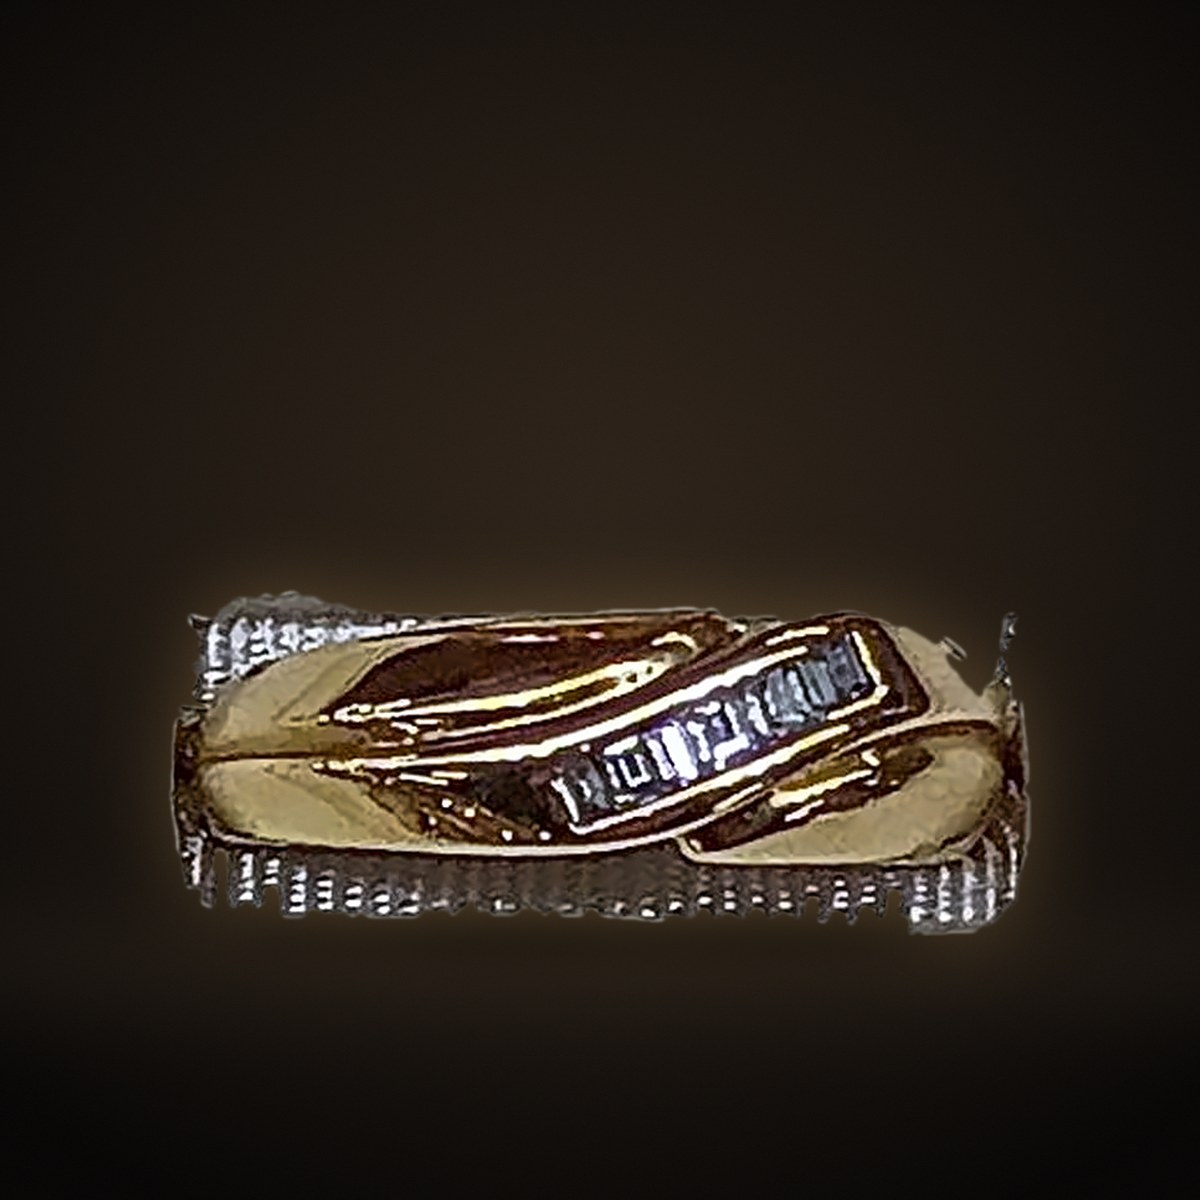
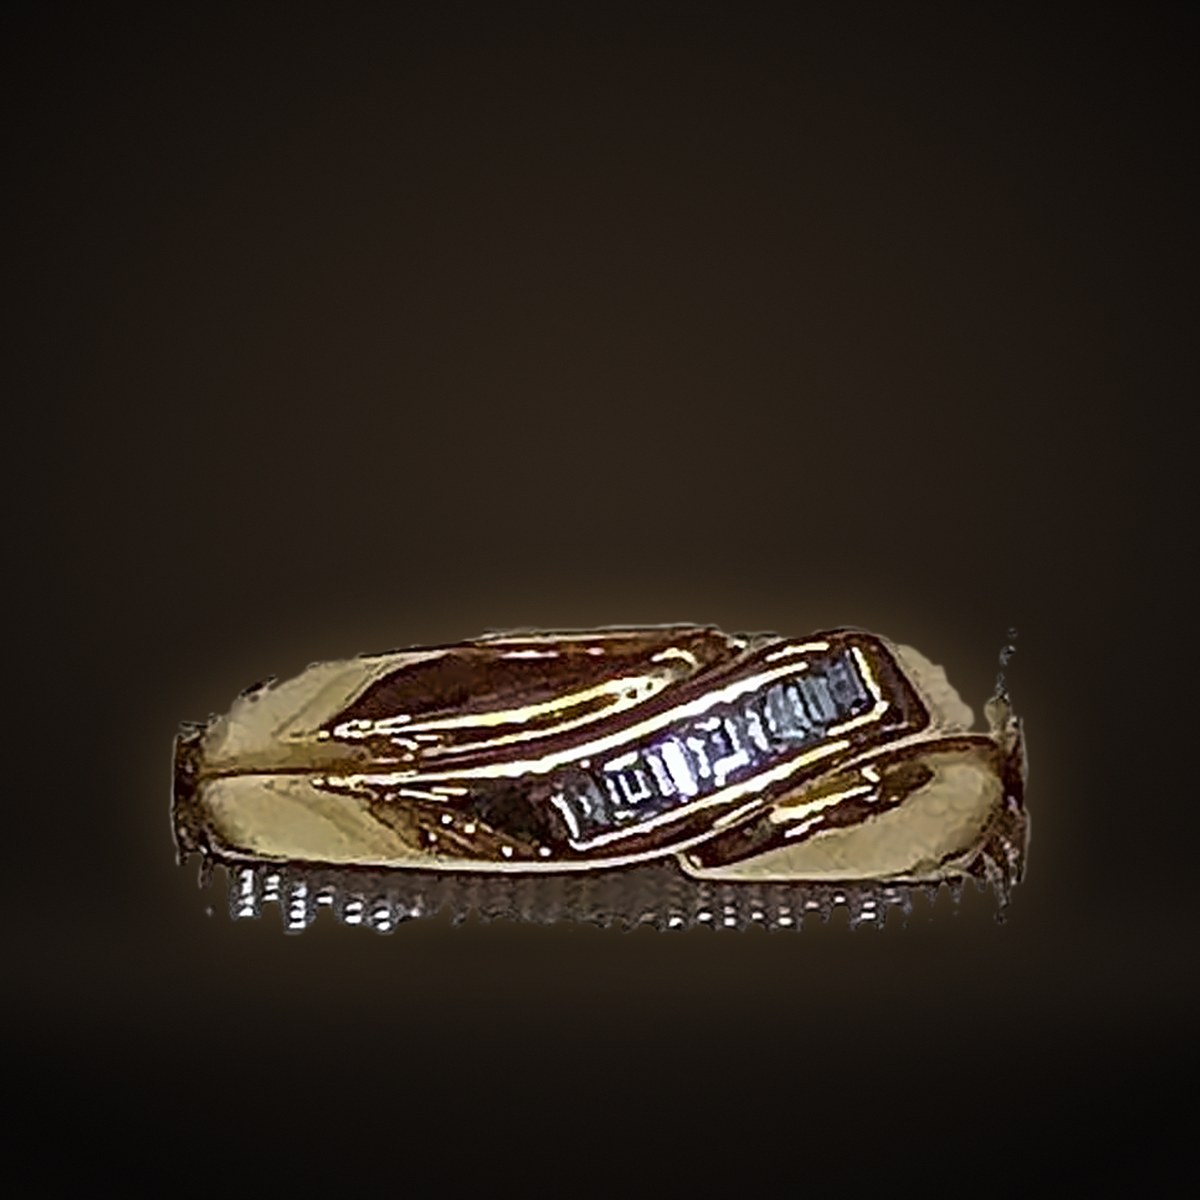
Storefront polish: phone menu, order form on phones, honest auction label, cleaner photos
- Phone menu showed one link: the blurred header boxed in the slide-out menu.
- Custom-order form scrolled sideways on phones; page changes now close open forms.
- Auction block says Live now (with red dots) only while a lot is open.
- No stray scrollbar on the featured row.
- 12 rings re-cut without the display-case fabric; rings whose photos still show
  fabric or a tag sort after the clean ones.

Changed region(s): [[0.1233, 0.4933, 0.8633, 0.8017]]

diff --git a/public/app.js b/public/app.js
@@ -177,6 +177,7 @@ function route() {
   const r = parseRoute();
   trk(r.view === "shop" ? "shop_view" : "home_view", { dept: r.dept || "", q: (r.q || "").slice(0, 60) });
   $("#nav").classList.remove("open");
+  document.querySelectorAll("dialog[open]").forEach(d => d.close()); // a page change closes any open form
   $$("#nav a").forEach(a => a.classList.toggle("on", r.view === "shop" && (a.dataset.dept === r.dept || (!r.dept && a.getAttribute("href") === "#/shop"))));
   if (r.view === "shop") {
     $("#home").hidden = true; $("#shopView").hidden = false;
@@ -192,8 +193,11 @@ function route() {
 addEventListener("hashchange", route);
 
 /* ---------------------------------------------------------------- shop page */
+// Rings whose shop photo still shows the case fabric or a tag go after the clean ones.
+const ROUGH_PHOTO = /^ring0(16|21|26|29|62|63|64|76|77|78|79|81)/;
 function featureRank(i) {
   const k = key(i);
+  if (ROUGH_PHOTO.test(k)) return 2;
   if (/^ring/.test(k)) return 0;
   if (/ps5|pslot|xsx|xone|slot|bike/.test(k)) return 1;
   if (/^brac|earr/.test(k)) return 2;
@@ -356,6 +360,11 @@ function lotStatus(a) {
 }
 function renderAuctions(prev = {}) {
   const grid = $("#auctionGrid");
+  // "Live now" and the red dots only while a lot is actually open for bids
+  const liveNow = state.auctions.some(a => a.status === "live");
+  document.body.classList.toggle("no-live", !liveNow);
+  const eb = $("#auctionEyebrow");
+  if (eb) eb.lastChild.textContent = liveNow ? " Live now" : state.auctions.length ? " Coming up" : " Opening soon";
   if (!state.auctions.length) { grid.innerHTML = `<p class="empty">New lots are being photographed. Check back soon, or call to ask what's coming up.</p>`; return; }
   grid.innerHTML = state.auctions.map(a => `
     <article class="lot" data-lot="${a.id}">
@@ -449,6 +458,8 @@ document.addEventListener("click", async e => {
 });
 $("#cartBtn").onclick = openCart;
 $("#menuBtn").onclick = () => $("#nav").classList.toggle("open");
+// nav-close: picking a link on a phone closes the menu
+$("#nav").addEventListener("click", e => { if (e.target.closest("a")) $("#nav").classList.remove("open"); });
 $("#topSearch").onsubmit = e => { e.preventDefault(); const q = e.target.q.value.trim(); location.hash = shopURL({ dept: "", aisle: "", q, p: 1 }); e.target.q.blur(); };
 let qTimer;
 $("#shopSearch").oninput = e => { clearTimeout(qTimer); qTimer = setTimeout(() => { const r = parseRoute(); history.replaceState(null, "", shopURL(r, { q: e.target.value.trim(), p: 1 })); renderShop(parseRoute()); }, 200); };

diff --git a/public/extras.css b/public/extras.css
@@ -25,7 +25,7 @@
 .custom-steps span{color:var(--mute);font-size:14px}
 .hero-cta.center{justify-content:center}
 
-.custom-form{display:grid;gap:12px;min-width:min(560px,86vw)}
+.custom-form{display:grid;gap:12px;min-width:min(504px,calc(94vw - 56px))}
 .custom-form h3{font:600 30px/1.1 var(--serif)}
 .custom-form label{display:grid;gap:6px;font-size:13px;color:var(--mute)}
 .custom-form input,.custom-form select,.custom-form textarea{width:100%;background:rgba(255,255,255,.04);border:1px solid var(--line);border-radius:12px;padding:11px 12px;color:var(--ink)}
@@ -52,3 +52,13 @@
   .ctile b{font-size:19px}
 }
 @media (prefers-reduced-motion:reduce){.ctile{transition:none}}
+
+/* Nov 25 polish: no stray vertical scrollbar when a featured card lifts on hover */
+.rail{overflow-y:hidden;padding-top:8px}
+/* the red "live" dots show only while an auction is actually open */
+body.no-live .live-dot{display:none}
+/* phone menu: the header's blur made the slide-out menu fit inside the header bar, so it showed one link.
+   A solid header on small screens lets the menu use the whole screen height. */
+@media (max-width:980px){.top{backdrop-filter:none;-webkit-backdrop-filter:none;background:rgba(7,6,5,.97)}}
+/* phone: the custom-order form fits the screen with no sideways scroll */
+@media (max-width:640px){.modal{padding:24px 18px}.custom-form{min-width:0;width:100%}}

diff --git a/public/index.html b/public/index.html
@@ -22,7 +22,7 @@
   {"@type":"OpeningHoursSpecification","dayOfWeek":"Saturday","opens":"09:00","closes":"15:00"}]}
 </script>
 </head>
-<body>
+<body class="no-live">
 <div class="demo-banner" id="demoBanner" hidden>Preview mode: browsing works, nothing is sent.</div>
 
 <header class="top" id="top">
@@ -108,7 +108,7 @@
 
 <section class="section auction" id="auction">
   <div class="section-head">
-    <p class="eyebrow"><i class="live-dot"></i> Live now</p>
+    <p class="eyebrow" id="auctionEyebrow"><i class="live-dot"></i> Live now</p>
     <h2>The A–Z <em>Auction Block</em></h2>
     <p>Bid from your phone. The high bid updates for everyone, and a last-second bid adds two minutes so nobody gets sniped.</p>
   </div>
